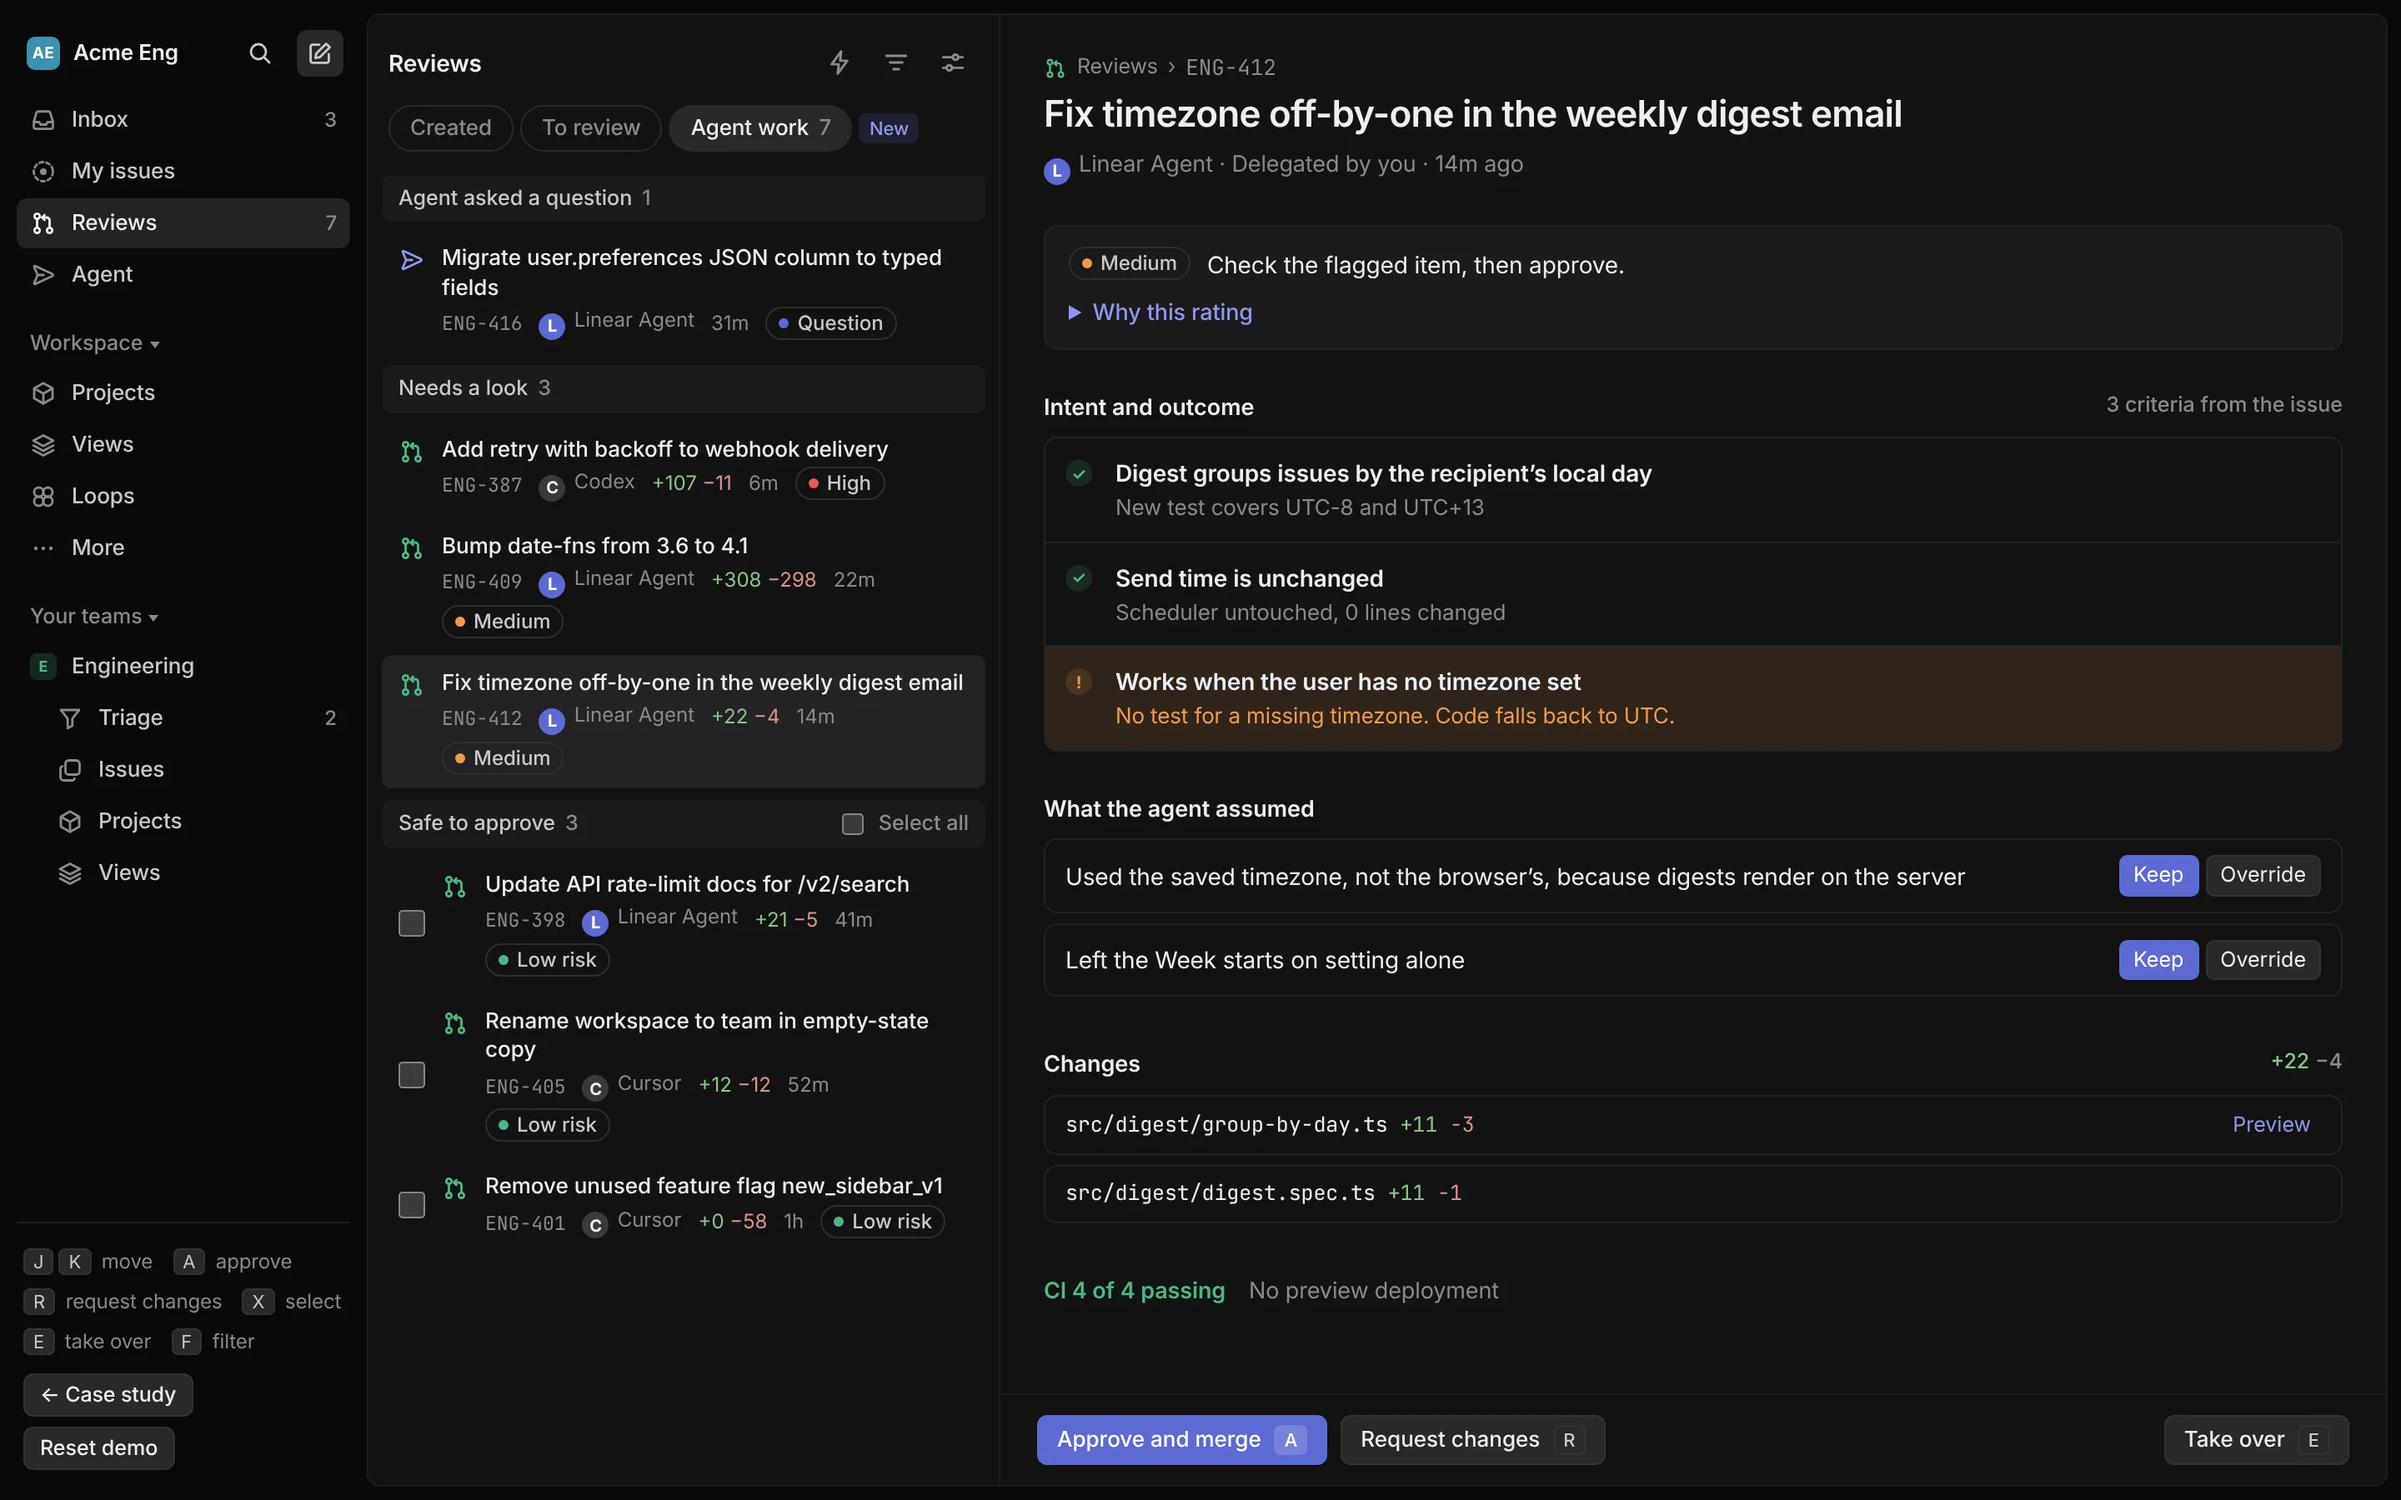
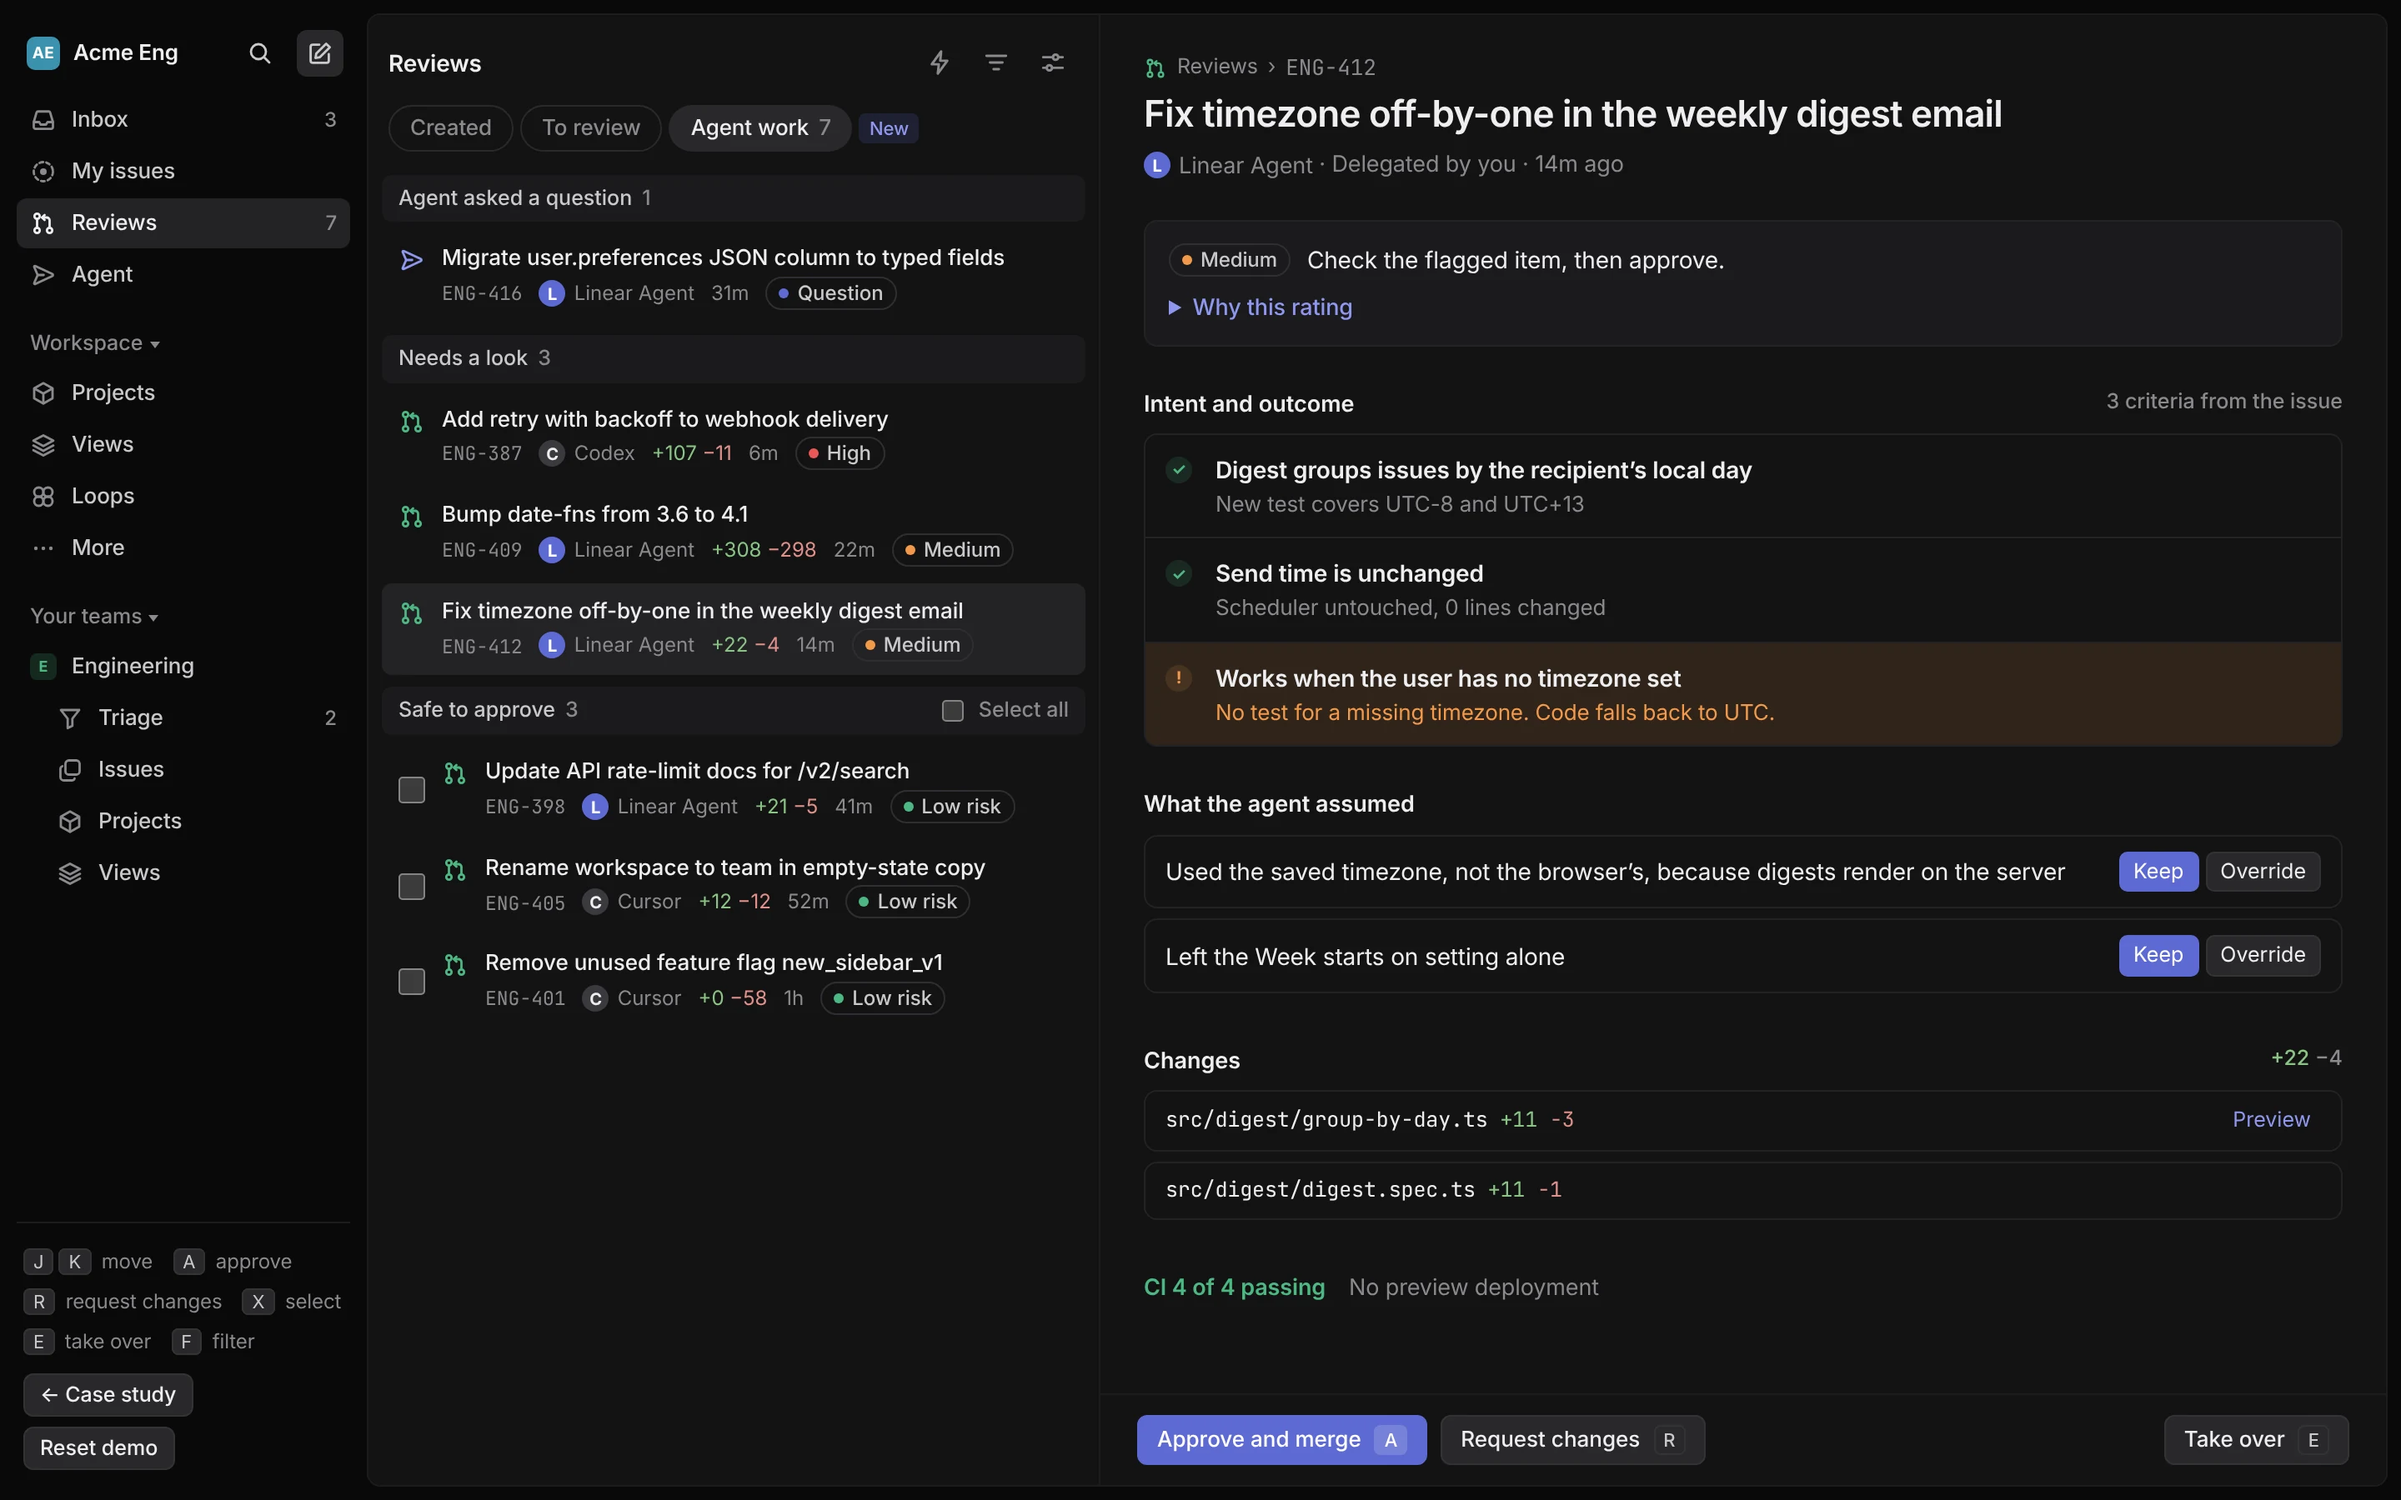
Widen the review list so safe-to-approve rows stop wrapping
The list column grows from 300-380px to 340-440px, so rows with a
checkbox keep their title and metadata on one line each.

Claude-Session: https://claude.ai/code/session_01N81uEGCLgyeughHWHwjMiT

diff --git a/styles.css b/styles.css
@@ -224,7 +224,7 @@ kbd{background:var(--chip);border:1px solid #333336;border-radius:4px;padding:0 
 .ico{width:16px;height:16px;flex:none;fill:none;stroke:currentColor;stroke-width:1.4;stroke-linecap:round;stroke-linejoin:round}
 
 /* app frame: sidebar on the chrome, list and detail on one rounded panel */
-.app{background:var(--bg);border:1px solid var(--line-soft);border-radius:10px;padding:8px 8px 8px 0;font-size:13px;line-height:1.5;grid-template-columns:220px minmax(300px,380px) minmax(0,1fr)}
+.app{background:var(--bg);border:1px solid var(--line-soft);border-radius:10px;padding:8px 8px 8px 0;font-size:13px;line-height:1.5;grid-template-columns:220px minmax(340px,440px) minmax(0,1fr)}
 .sb{background:transparent;border:0;padding:6px 10px;gap:1px;font-size:13px}
 .ws{display:flex;align-items:center;gap:8px;font-weight:600;padding:4px 4px 10px 6px;color:var(--fg)}
 .ws .wsa{width:20px;height:20px;border-radius:5px;background:#3a91ad;color:#fff;display:grid;place-items:center;font-size:9.5px;font-weight:700;letter-spacing:.02em;flex:none}
